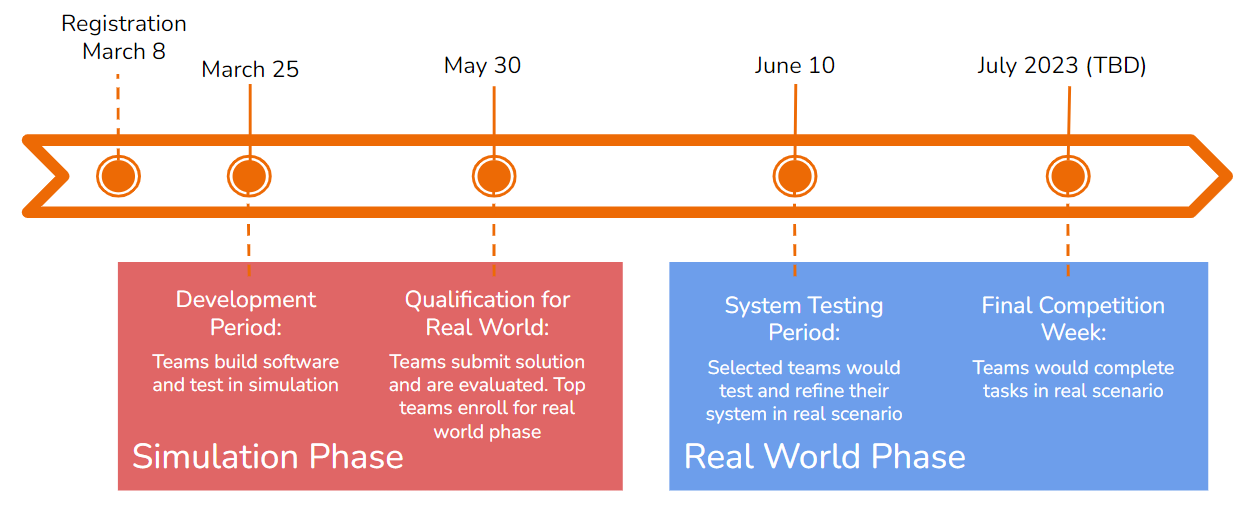
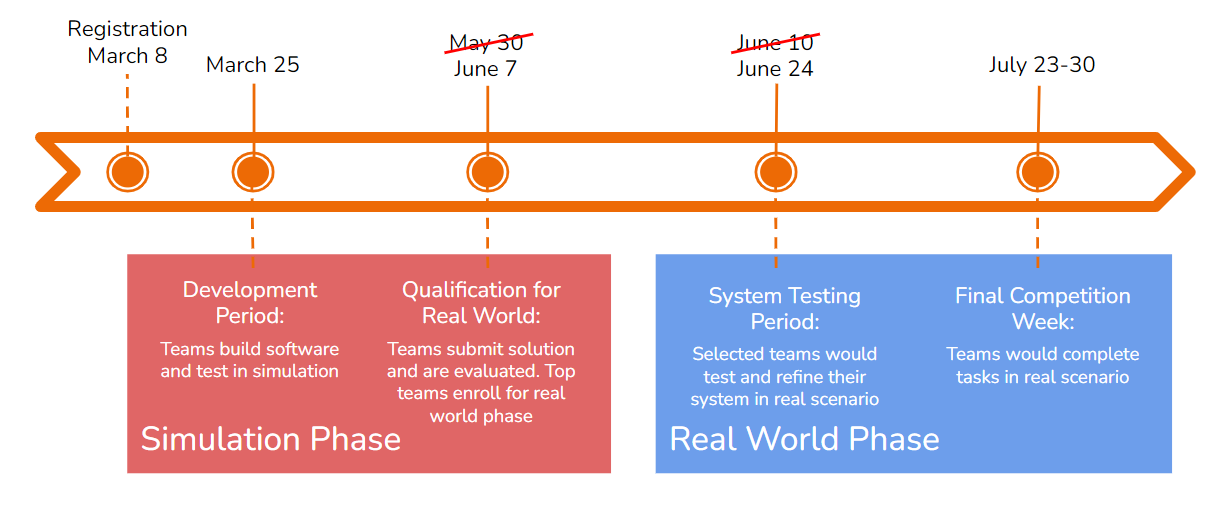
update important dates

Changed region(s): [[0.0, 0.031, 0.9951, 0.9612], [0.5908, 0.062, 0.6841, 0.155]]

diff --git a/docs/introduction/important-dates.fr.md b/docs/introduction/important-dates.fr.md
@@ -7,10 +7,10 @@
 | L'enregistrement s'ouvre | 8 Mars 2023 |
 | L'inscription ferme | 25 Mars 2023 |
 | Événement de lancement de phase 1 (virtuel) | 25 Mars 2023 |
-| Date limite de soumission de phase 1 | 30 Mai 2023 |
-| Annonce de qualification de phase 2 | 5 Juin 2023 |
-| Phase 2 Début | 10 Juin 2023 |
-| Concours final | Juillet 2023 (TBD) |
+| Date limite de soumission de phase 1 | ~~30 Mai~~ 7 Juin 2023 |
+| Annonce de qualification de phase 2 | ~~5 Juin~~ 17 Juin 2023 |
+| Phase 2 Début | ~~10 Juin~~ 24 Juin 2023 |
+| Concours final | 23-30 Juillet 2023 |
 
 
 Veuillez noter que toutes les dates sont susceptibles de changer. Nous vous encourageons à vérifier cette page régulièrement pour les mises à jour et à vous assurer que vous êtes conscient des modifications qui peuvent survenir. Si vous avez des questions sur les dates importantes ou si vous avez besoin d'aide pour respecter l'une des délais, veuillez nous contacter via notre site Web ou nous envoyer un courriel à [parcrobotics@senecocole.com](mailto:parcrobotics@senecocole.com). Nous serons heureux de vous aider de toutes les manières possibles.

diff --git a/docs/introduction/important-dates.md b/docs/introduction/important-dates.md
@@ -7,10 +7,10 @@
 | Registration Opens | March 8th 2023 |
 | Registration Closes | March 25th 2023 |
 | Phase 1 Kick-Off Event (Virtual) | March 25th 2023 |
-| Phase 1 Submission Deadline | May 30th 2023 |
-| Phase 2 Qualification Announcement | June 5th 2023 |
-| Phase 2 Kick-Off | June 10th 2023 |
-| Final Competition | July 2023 (TBD) |
+| Phase 1 Submission Deadline | ~~May 30th~~ June 7th 2023 |
+| Phase 2 Qualification Announcement | ~~June 5th~~ June 17th 2023 |
+| Phase 2 Kick-Off | ~~June 10th~~ June 24th 2023 |
+| Final Competition | July 23-30 |
 
 
 Please note that all dates are subject to change. We encourage you to check this page regularly for updates and to ensure that you are aware of any changes that may occur. If you have any questions about the important dates or need assistance with meeting any of the deadlines, please contact us through email at [parcengineering@senecole.com](mailto:parcengineering@senecole.com). We will be happy to assist you in any way we can.
